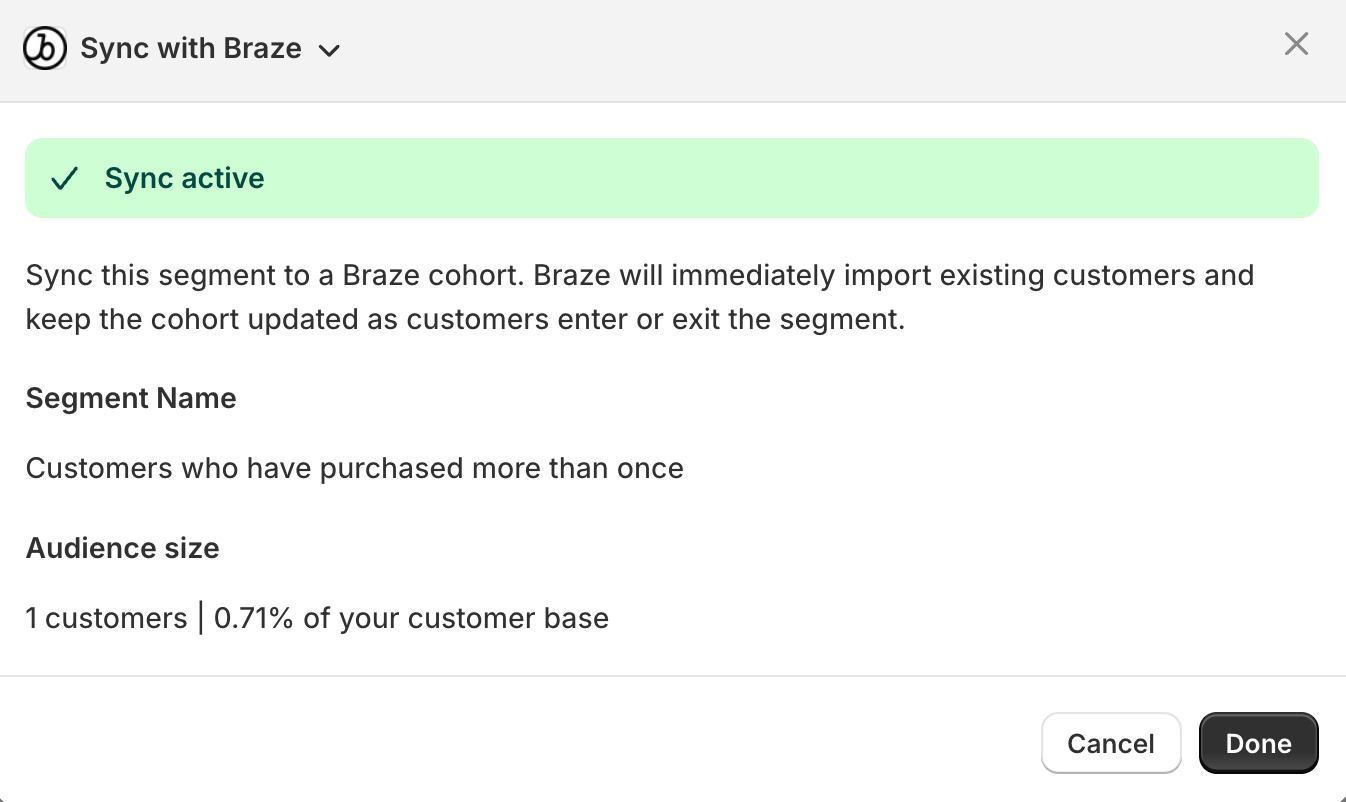
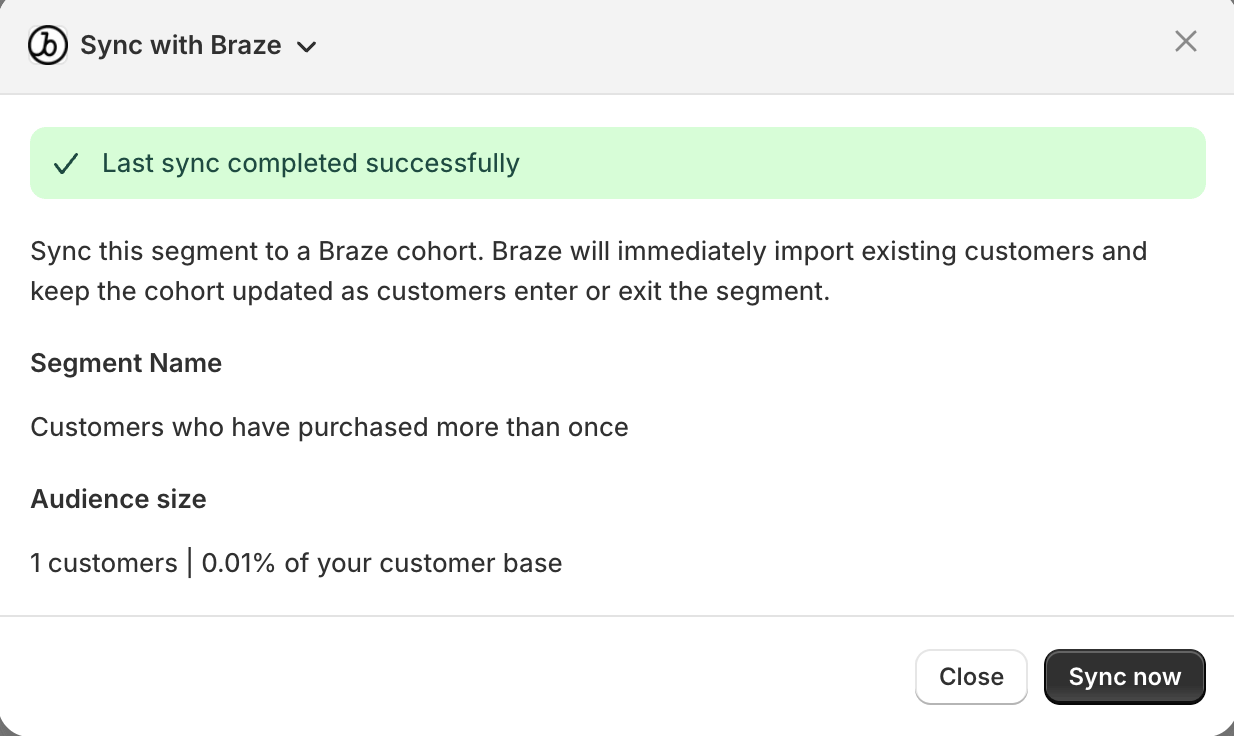
[PP-5934] Update Shopify segment sync docs for M2 (#14907)

diff --git a/_docs/_partners/ecommerce/shopify/shopify_segments_sync.md b/_docs/_partners/ecommerce/shopify/shopify_segments_sync.md
@@ -8,7 +8,7 @@ description: "This reference article explains how to sync Shopify segments into 
 
 # Shopify segments sync
 
-> The Shopify segments sync extends your Shopify store into Braze, giving your marketing team direct access to richer user data that lives in Shopify, including signals that aren't captured by the standard Braze Shopify integration. By syncing Shopify segments as cohorts, you align audience definitions across both platforms and deliver consistent, coordinated user experiences whether a user is targeted in Shopify or engaged through a Braze campaign.
+> The Shopify segments sync extends your Shopify store into Braze, giving your marketing team direct access to richer user data that lives in Shopify, including signals that aren't captured by the standard Braze Shopify integration. By syncing Shopify segments as cohorts, you align audience definitions across both platforms and deliver consistent, coordinated user experiences whether you target them in Shopify or reach them through a Braze campaign.
 
 {% alert important %}
 The Shopify segments sync is currently in beta. To request access, contact your customer success manager.
@@ -19,15 +19,15 @@ The Shopify segments sync is currently in beta. To request access, contact your 
 | Requirement | Description |
 | --- | --- |
 | Braze Shopify integration | The Braze Shopify app must be installed on your Shopify store and connected to a Braze workspace. For setup instructions, see [Shopify Standard Integration Setup]({{site.baseurl}}/partners/ecommerce/shopify/shopify_standard_integration/) or [Shopify Custom Integration Setup]({{site.baseurl}}/partners/ecommerce/shopify/shopify_custom_integration/). |
-| Shopify user permission | The Shopify user initiating the segment sync must have the **Export** permission to export customer data. For more information on Shopify permissions, see [Shopify's store permissions documentation](https://help.shopify.com/en/manual/your-account/users/roles/permissions/store-permissions#customers-permissions). |
+| Shopify user permission | The Shopify user initiating the segment sync must have the **Export** permission to export user data. For more information on Shopify permissions, see [Shopify's store permissions documentation](https://help.shopify.com/en/manual/your-account/users/roles/permissions/store-permissions#customers-permissions). |
 {: .reset-td-br-1 .reset-td-br-2 aria-label="Prerequisites" }
 
 ## How it works
 
 The Shopify segments sync works in two phases.
 
-1. When you first sync a segment, Braze backfills all current members and creates a corresponding cohort in Braze. The backfill runs asynchronously and may take a few moments to complete.
-2. During the initial sync, Braze backfills current members and subscribes to Shopify webhooks so membership stays synced in near real-time.
+1. **Initial backfill:** When you first sync a segment, Braze backfills all current members and creates a corresponding cohort in Braze. The backfill runs asynchronously and may take a few moments to complete.
+2. **Ongoing sync:** After the initial backfill, Braze also subscribes to Shopify webhooks so membership stays synced in near real-time.
 
 | Webhook topic | Effect in Braze |
 | --- | --- |
@@ -35,7 +35,7 @@ The Shopify segments sync works in two phases.
 | `customer.left_segment` | The user is removed from the corresponding Braze cohort. |
 {: .reset-td-br-1 .reset-td-br-2 aria-label="Webhook topic" }
 
-If a sync fails, the action extension modal displays an error banner with a recommended action. Select **Sync with Braze** to retry.
+If a sync fails, the action extension modal displays an error banner explaining what happened and how to proceed. Some errors offer a **Retry sync** action. Others require an admin or configuration change.
 
 ## Data import integration
 
@@ -47,17 +47,24 @@ In Shopify, go to **Customers** > **Segments**, and select the segment you want 
 
 ### Step 2: Initiate the sync
 
-1. On Shopify's segment detail page, open the **Use segment** dropdown and select **Braze Segment Sync**. 
+1. On Shopify's segment detail page, open the **Use segment** dropdown and select **Braze Segment Sync**.
 
-![Segment detail page with a "Use segment dropdown that has a "Braze Segment Sync" option.]({% image_buster /assets/img/shopify/braze_segment_sync.png %})
+![Segment detail page with a "Use segment" dropdown that has a "Braze Segment Sync" option.]({% image_buster /assets/img/shopify/braze_segment_sync.png %})
 
 {: start="2"}
-2. In the Braze action extension modal that opens, displaying the segment name and audience size. Select **Sync with Braze** to begin the import.
+2. The Braze action extension modal opens, displaying the segment name and audience size. Select **Sync with Braze** to begin the import.
 
 ![Modal with a button to sync with Braze.]({% image_buster /assets/img/shopify/sync_with_braze.png %}){:style="max-width:70%;"}
 
 {: start="3"}
-3. Select **Done**.
+3. The modal transitions to a syncing state and shows a progress banner while Braze imports the members.
+
+![Modal showing sync in progress.]({% image_buster /assets/img/shopify/sync_in_progress.png %}){:style="max-width:70%;"}
+
+{: start="4"}
+4. Select **Close**. The sync continues in the background. Closing the modal doesn't stop it.
+
+To check whether the sync has completed, close and reopen the modal. When the sync finishes, the modal opens with a success banner.
 
 ![Modal confirming sync is active.]({% image_buster /assets/img/shopify/braze_sync_active.png %}){:style="max-width:70%;"}
 
@@ -67,14 +74,37 @@ In Braze, go to **Audience** > **Segments**, and create a new segment. In **Add 
 
 ![Segment builder with the "Shopify Cohorts" filter.]({% image_buster /assets/img/shopify/segment_builder_cohort_import.png %})
 
+## Re-syncing a segment
+
+After a segment is synced, you can refresh cohort membership at any time from the same action extension.
+
+1. In Shopify, open the synced segment and select **Use segment** > **Braze Segment Sync**.
+2. In the modal, select **Sync now**.
+3. In the confirmation dialog, select **Sync now** to start the re-sync.
+
+Re-syncing is additive: users who match the current Shopify segment are added to the cohort, but users who no longer match remain in the cohort.
+
+## Segment updates in Shopify
+
+### Renaming a segment
+
+When you rename a Shopify segment, Braze updates the corresponding cohort's display name automatically. No re-sync is required.
+
+### Changing segment criteria
+
+Changes to a Shopify segment's criteria don't propagate automatically. To pick up users who newly match the criteria, re-sync the segment from the action extension. Users who no longer match remain in the cohort because re-sync doesn't remove members. For details, see [Re-syncing a segment](#re-syncing-a-segment).
+
 ## User matching
 
 Users synced from Shopify segments are matched to Braze user profiles using the `shopify_customer_id` alias that is set as part of the Braze Shopify integration. Users without a matching Braze user profile are skipped during sync.
 
 For details on how the Shopify integration identifies and aliases users, see [Shopify Data Features]({{site.baseurl}}/partners/ecommerce/shopify/shopify_data_features/).
 
+Braze matches synced users against existing Braze user profiles regardless of how those profiles were created, including through the Shopify historical backfill, your own data platform (such as Snowflake or another data warehouse), or direct API imports. If your cohort is smaller than your Shopify segment, it means some segment members don't yet have a matching Braze profile. To increase match coverage, populate Braze user profiles through your preferred method before syncing.
+
 ## Limitations
 
 - **One-way sync.** Segment membership flows from Shopify to Braze only. Changes to cohort membership made directly in Braze are not pushed back to Shopify.
 - **No profile creation.** Only Shopify customers who already have a Braze user profile are added to the cohort.
 - **No undoing syncs.** When a Shopify segment is synced, it cannot be undone.
+- **Re-sync only adds members.** Re-syncing a segment adds newly matching users to the cohort but doesn't remove users who are no longer in the Shopify segment.
